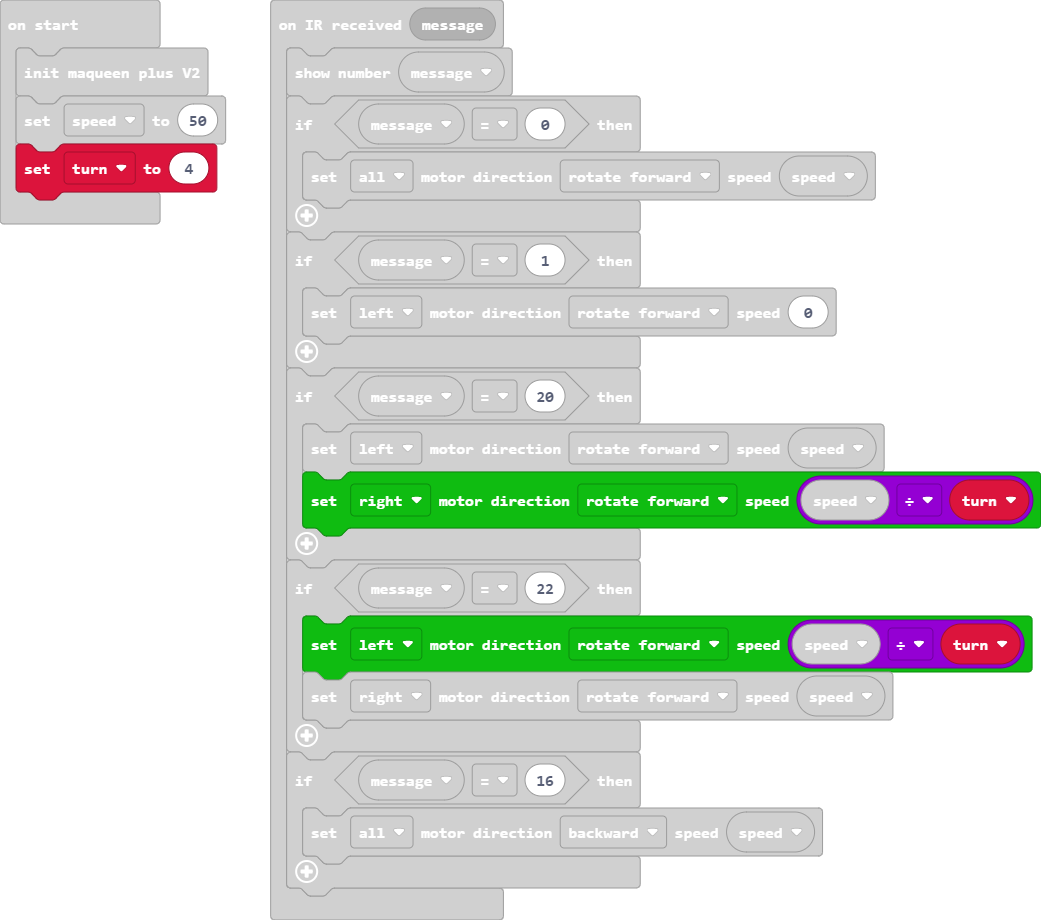
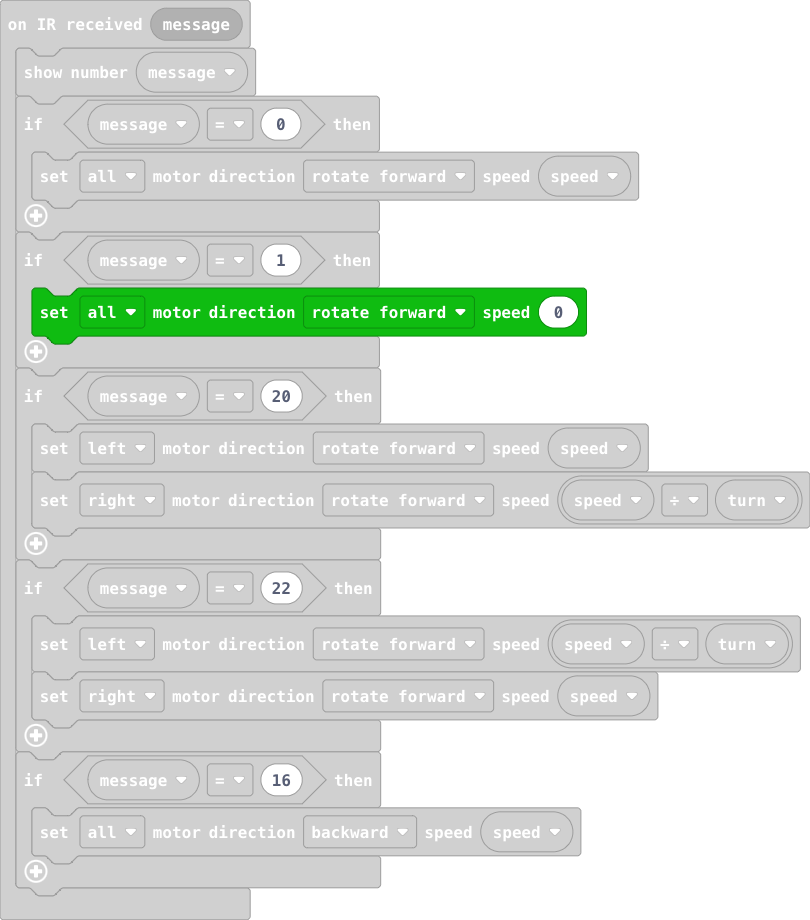
Update main.blocks, main.ts

diff --git a/main.ts b/main.ts
@@ -4,7 +4,7 @@ DFRobotMaqueenPlusV2.onIrDatagram(function (message) {
         DFRobotMaqueenPlusV2.controlMotor(MyEnumMotor.eAllMotor, MyEnumDir.eForward, speed)
     }
     if (message == 1) {
-        DFRobotMaqueenPlusV2.controlMotor(MyEnumMotor.eLeftMotor, MyEnumDir.eForward, 0)
+        DFRobotMaqueenPlusV2.controlMotor(MyEnumMotor.eAllMotor, MyEnumDir.eForward, 0)
     }
     if (message == 20) {
         DFRobotMaqueenPlusV2.controlMotor(MyEnumMotor.eLeftMotor, MyEnumDir.eForward, speed)
